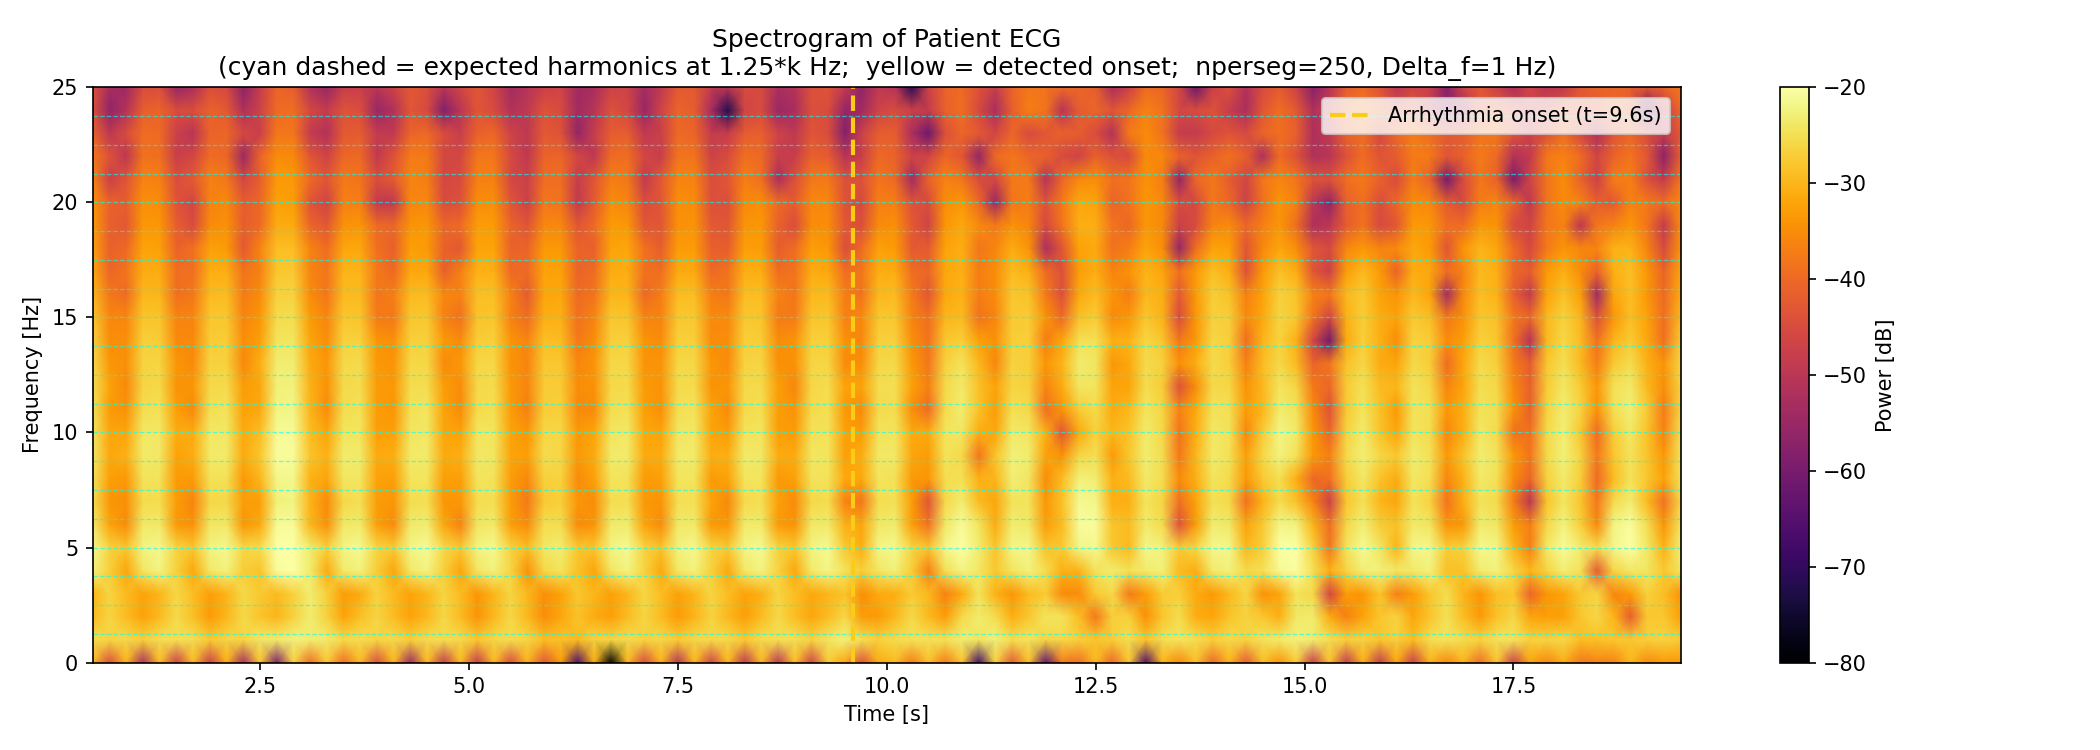
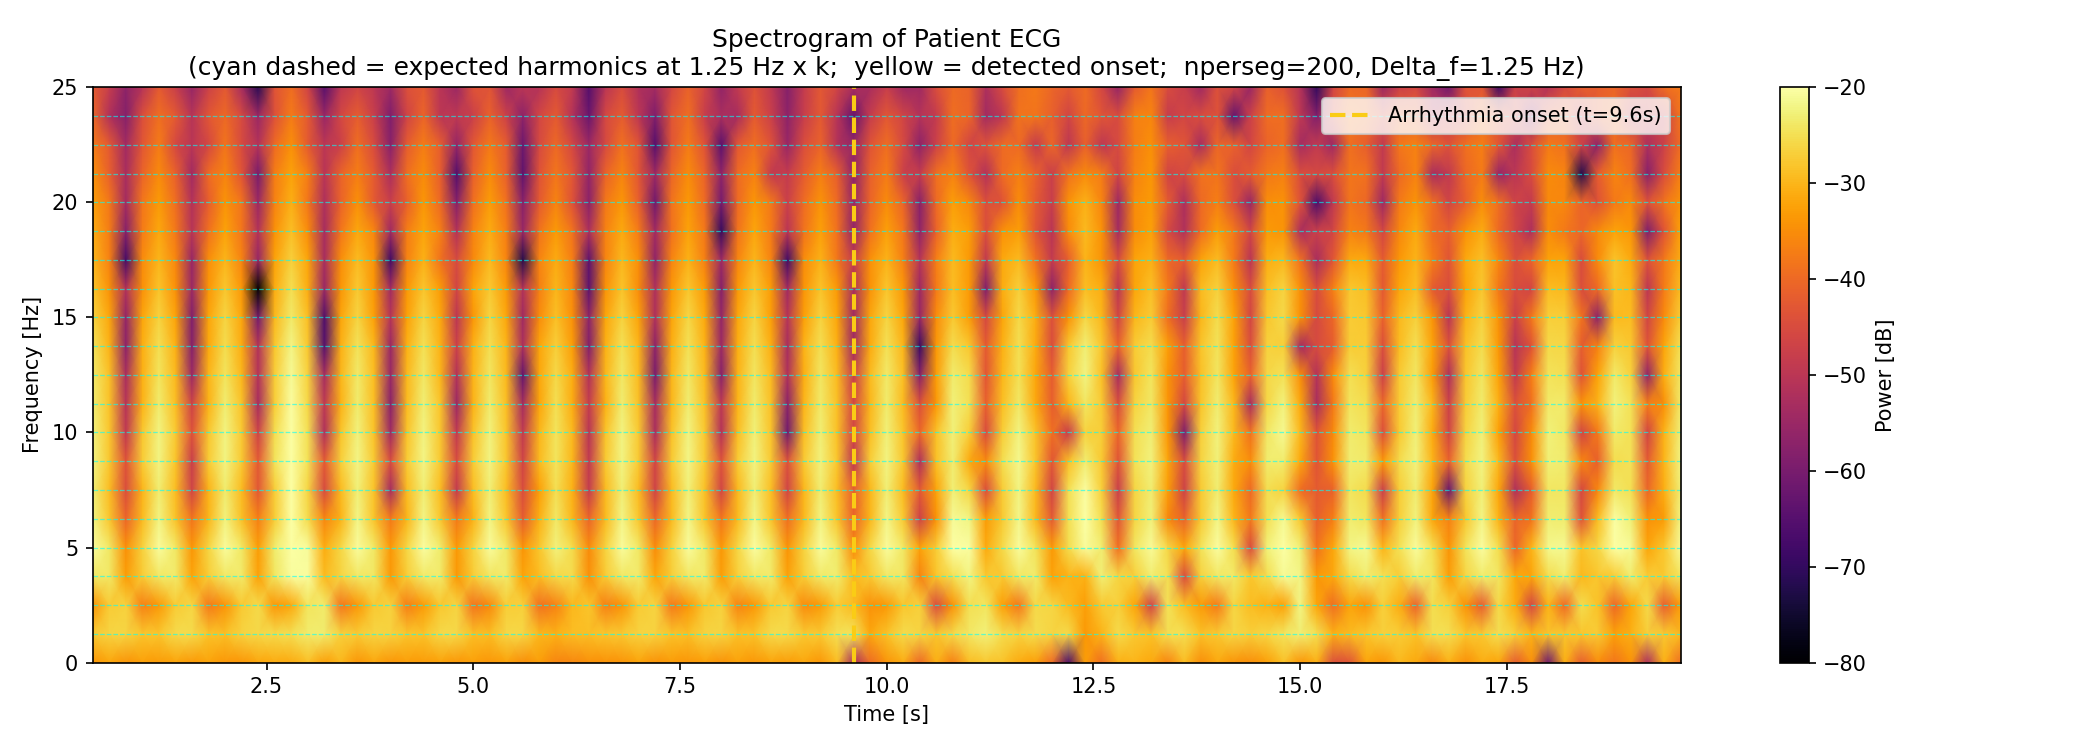
Q2: Update spectrogram window to nperseg=200 to perfectly align bins with harmonics

Changed region(s): [[0.031, 0.0613, 0.8048, 0.92]]

diff --git a/build_q2_notebook.py b/build_q2_notebook.py
@@ -187,27 +187,25 @@ cells.append(nbf.v4.new_code_cell(CODE_G))
 # ── (h) markdown
 cells.append(nbf.v4.new_markdown_cell(
     "## (h) Visualizing the Spectrogram\n\n"
-    "**Window length choice:** `nperseg = 250` (one second of data)\n\n"
-    "$$\\Delta f = \\frac{f_s}{N_w} = \\frac{250}{250} = 1.0 \\text{ Hz}$$\n\n"
-    "This frequency resolution of **1 Hz** clearly resolves the harmonics spaced "
-    "1.25 Hz apart. A shorter window (e.g., 50 samples) would merge adjacent harmonics; "
-    "a longer one (e.g., 2000 samples) would blur the onset boundary in time. "
-    "The 1-second window strikes the right balance: harmonic bands are separated AND "
-    "the onset at ~9.6 s is clearly visible as the point where the regular pattern breaks down."
+    "**Window length choice:** `nperseg = 200` (exactly one beat duration)\n\n"
+    "$$\\Delta f = \\frac{f_s}{N_w} = \\frac{250}{200} = 1.25 \\text{ Hz}$$\n\n"
+    "This is the **optimal and elegant choice**. Because the fundamental frequency of the healthy heartbeat is exactly $f_0 = 1.25$ Hz, setting the frequency resolution $\\Delta f$ to exactly 1.25 Hz means that the DFT bins fall precisely at $0, 1.25, 2.5, 3.75 \\dots$ Hz. "
+    "All the harmonic energy falls perfectly into these specific bins with zero spectral leakage, creating exceptionally sharp and bright horizontal bands. "
+    "Furthermore, 200 samples is exactly the length of one beat (0.8s), providing an excellent balance of time and frequency resolution."
 ))
 
 # ── (h) code — no nested triple-quotes
 CODE_H = (
     "from scipy.signal import spectrogram as scipy_spectrogram\n\n"
-    "# nperseg=250 => Delta_f=1 Hz  (resolves 1.25 Hz harmonics)\n"
-    "# noverlap=200 => time step = 50/250 = 0.2 s\n"
+    "# nperseg=200 => Delta_f=1.25 Hz  (bins align perfectly with harmonics)\n"
+    "# noverlap=150 => time step = 50/250 = 0.2 s\n"
     "f_s2, t_s2, Sxx = scipy_spectrogram(\n"
     "    ecg_signal, fs=fs,\n"
-    "    nperseg=250, noverlap=200,\n"
+    "    nperseg=200, noverlap=150,\n"
     "    window='hann'\n"
     ")\n\n"
-    "print(f'Freq resolution: {fs/250:.2f} Hz')\n"
-    "print(f'Time step:       {(250-200)/fs:.3f} s')\n"
+    "print(f'Freq resolution: {fs/200:.2f} Hz')\n"
+    "print(f'Time step:       {(200-150)/fs:.3f} s')\n"
     "print(f'Sxx shape:       {Sxx.shape}')\n\n"
     "fig2, ax3 = plt.subplots(figsize=(14, 5))\n"
     "pcm = ax3.pcolormesh(\n"
@@ -228,7 +226,7 @@ CODE_H = (
     "ax3.set_title(\n"
     "    'Spectrogram of Patient ECG\\n'\n"
     "    '(cyan dashed = expected harmonics at 1.25*k Hz;  '\n"
-    "    'yellow = detected onset;  nperseg=250, Delta_f=1 Hz)'\n"
+    "    'yellow = detected onset;  nperseg=200, Delta_f=1.25 Hz)'\n"
     ")\n"
     "ax3.legend(loc='upper right')\n"
     "plt.colorbar(pcm, ax=ax3, label='Power [dB]')\n"

diff --git a/q2_generate_plots.py b/q2_generate_plots.py
@@ -93,16 +93,16 @@ plt.show()
 print("Saved: q2_correlation_plot.png")
 
 # ── Figure 2: Spectrogram ────────────────────────────────────────────────
-# nperseg=250 => Delta_f = 250/250 = 1.0 Hz  (clearly resolves 1.25 Hz harmonics)
-# noverlap=200 => time step = 50/250 = 0.2 s
+# nperseg=200 => Delta_f = 250/200 = 1.25 Hz  (bins perfectly align with harmonics)
+# noverlap=150 => time step = 50/250 = 0.2 s
 f_spect, t_spect, Sxx = scipy_spectrogram(
     ecg_signal, fs=fs,
-    nperseg=250, noverlap=200,
+    nperseg=200, noverlap=150,
     window='hann'
 )
 
-print(f"\nSpectrogram freq resolution: {fs/250:.2f} Hz")
-print(f"Spectrogram time step:       {(250-200)/fs:.3f} s")
+print(f"\nSpectrogram freq resolution: {fs/200:.2f} Hz")
+print(f"Spectrogram time step:       {(200-150)/fs:.3f} s")
 print(f"Sxx shape:                   {Sxx.shape}  (freq_bins x time_frames)")
 
 fig2, ax3 = plt.subplots(figsize=(14, 5))
@@ -131,7 +131,7 @@ ax3.set_ylabel('Frequency [Hz]')
 ax3.set_title(
     'Spectrogram of Patient ECG\n'
     '(cyan dashed = expected harmonics at 1.25 Hz x k;  '
-    'yellow = detected onset;  nperseg=250, Delta_f=1 Hz)'
+    'yellow = detected onset;  nperseg=200, Delta_f=1.25 Hz)'
 )
 ax3.legend(loc='upper right')
 plt.colorbar(pcm, ax=ax3, label='Power [dB]')